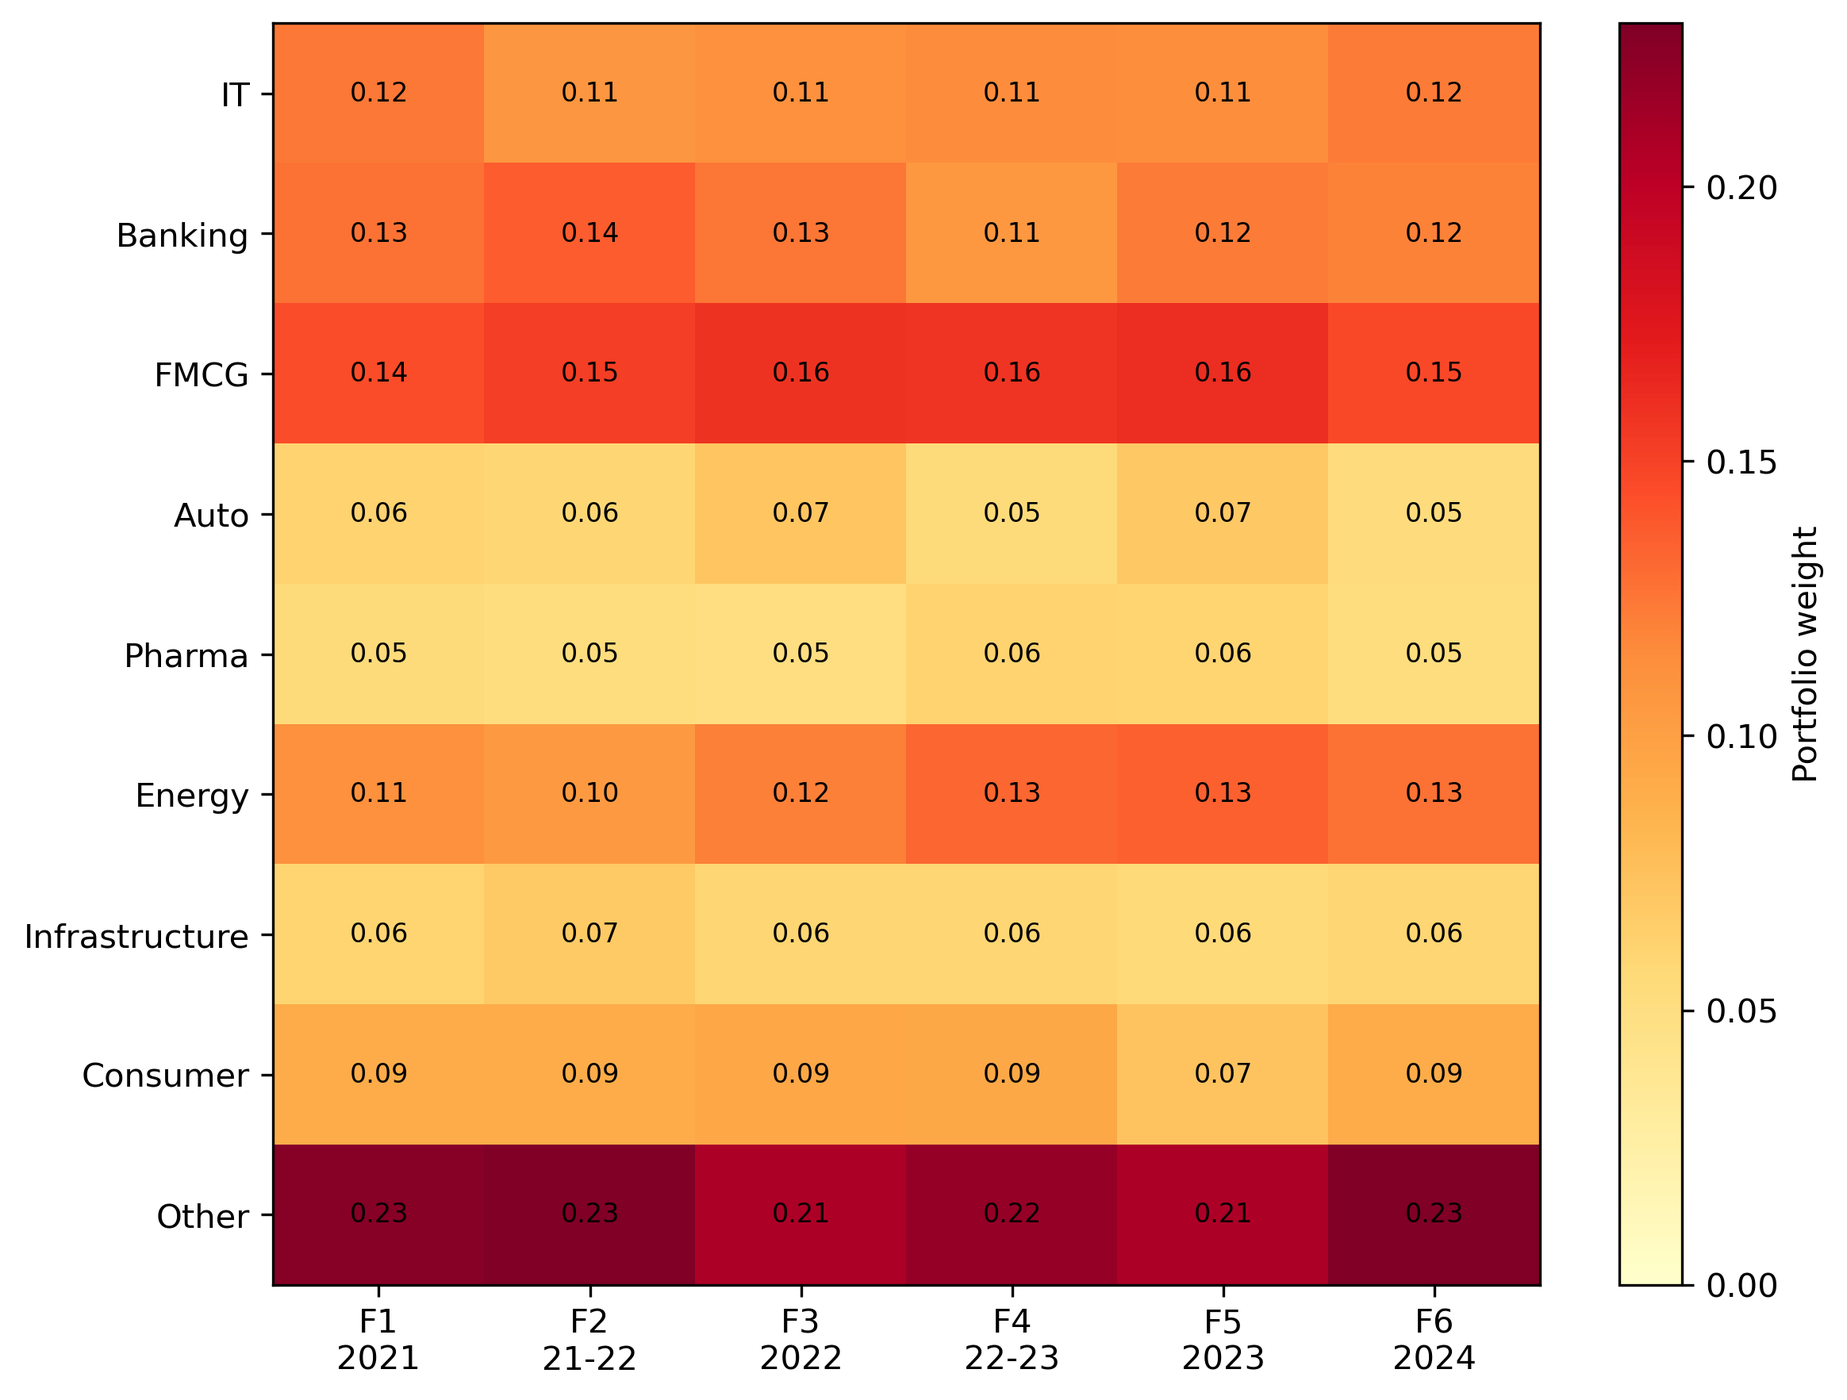
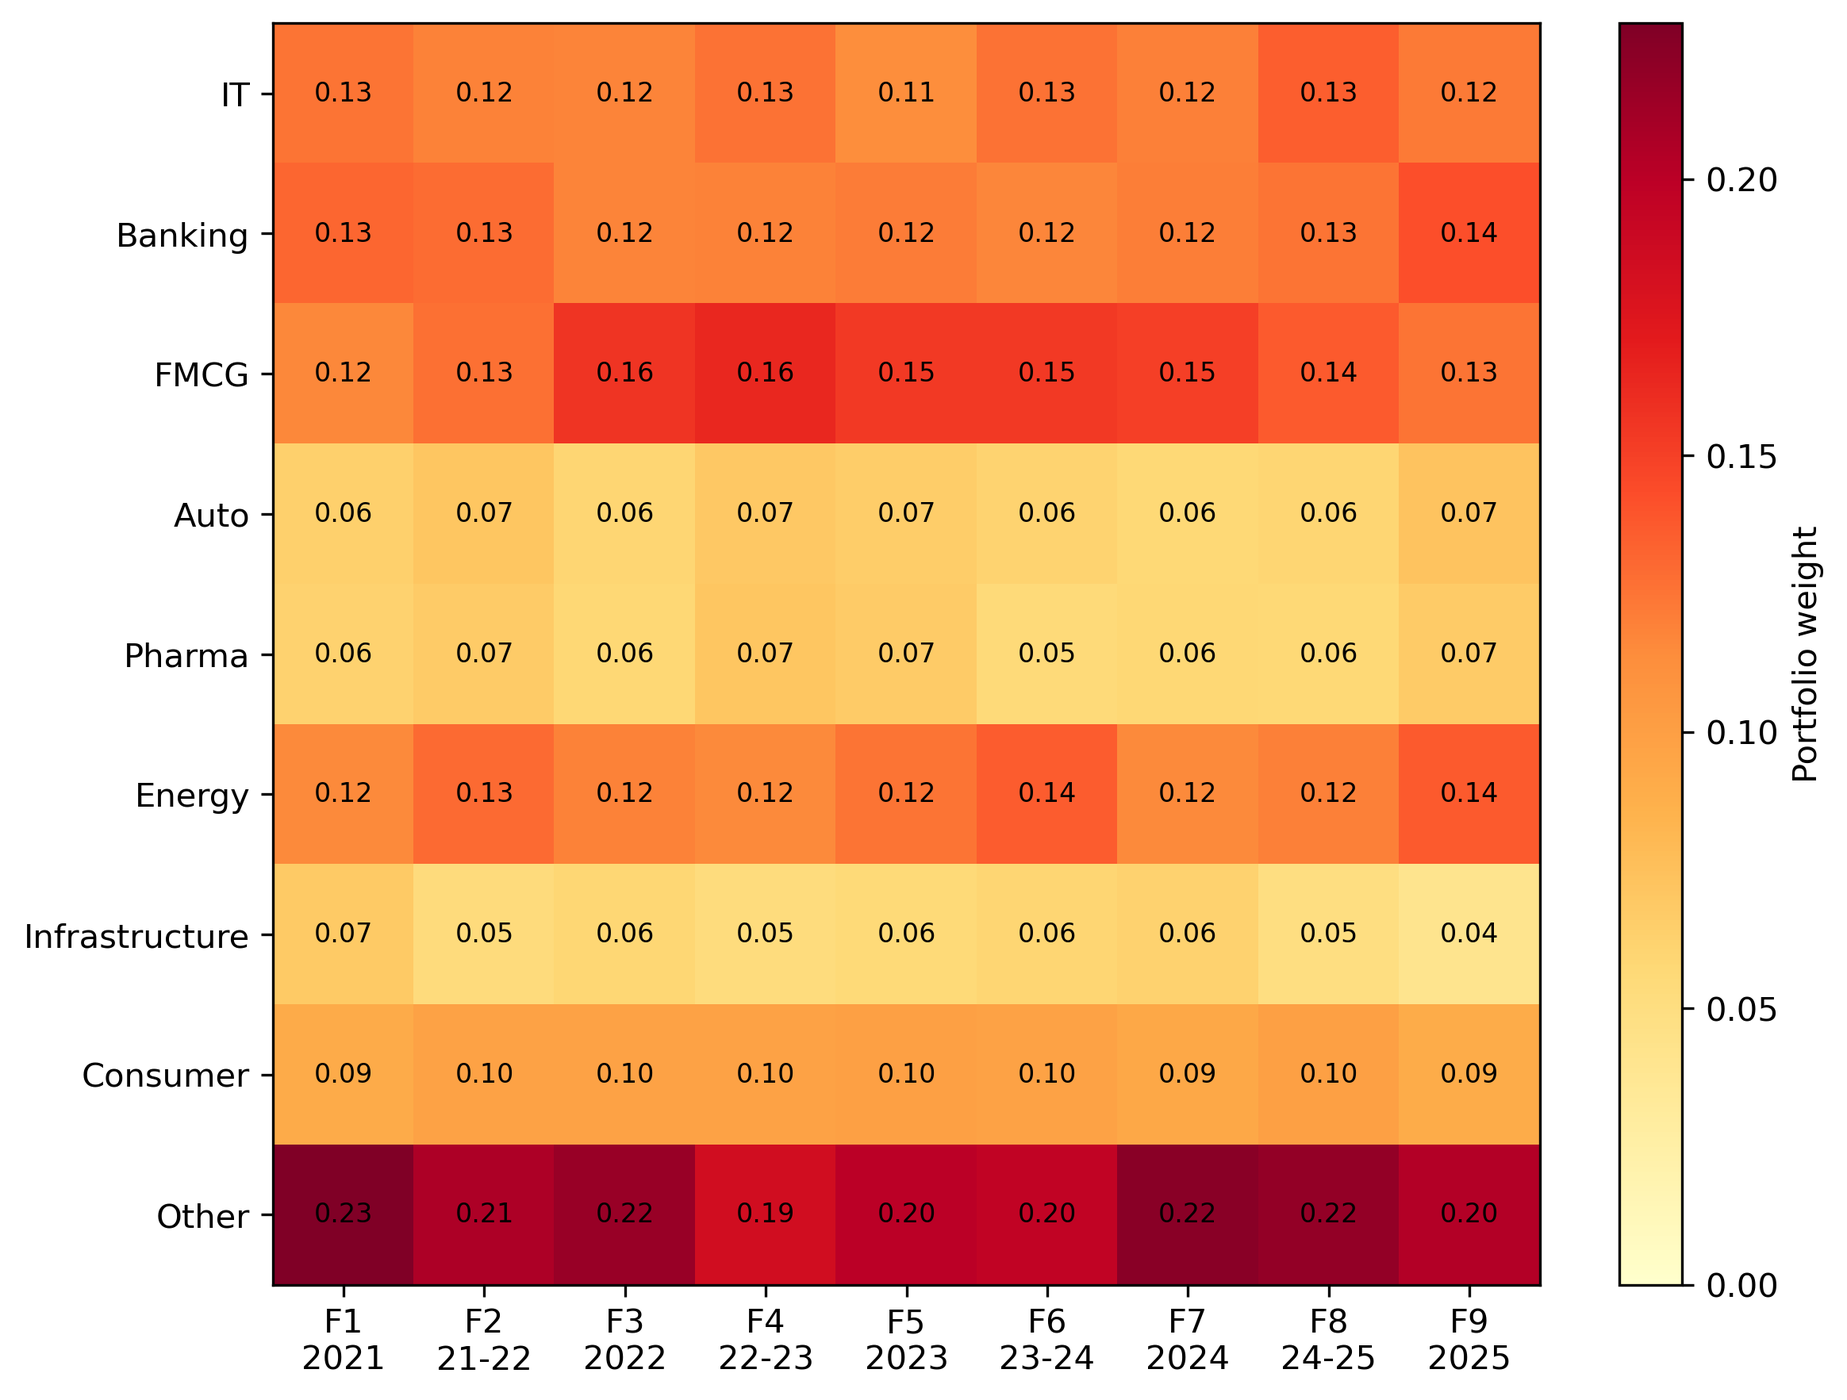
Reproducible paper figures and diagnostics; nine-fold sector weights; bootstrap interval fix

diff --git a/training/make_full_paper_figures.py b/training/make_full_paper_figures.py
@@ -1,0 +1,63 @@
+"""
+training/make_full_paper_figures.py
+Regenerates Fig. 2 (metrics heatmap), Fig. 7 (bootstrap CIs) and Fig. 10 (sensitivity) of the full manuscript
+from released artifacts only (outputs/results/*.csv). Run from the repository root:  python training/make_full_paper_figures.py
+"""
+import numpy as np, pandas as pd, matplotlib
+matplotlib.use("Agg")
+import matplotlib.pyplot as plt
+from matplotlib.patches import Rectangle
+from pathlib import Path
+ROOT = Path(__file__).resolve().parent.parent; R = ROOT / "outputs" / "results"; F = ROOT / "outputs" / "figures"; F.mkdir(parents=True, exist_ok=True)
+FOLDS = [f"Fold{i}" for i in range(1, 10)]
+frames = [pd.read_csv(R/"stgat_fold_results.csv"), pd.read_csv(R/"ablation_results.csv"), pd.read_csv(R/"bl_ml_results.csv"),
+          pd.read_csv(R/"rl_ppo_results.csv"), pd.read_csv(R/"benchmark_fold_results.csv").drop(columns=["name"])]
+A = pd.concat(frames, ignore_index=True); A = A[A.fold.isin(FOLDS)]
+ORDER = ["STGAT-DPO","STGAT-NoHMM","STGAT-NoGAT","BL-ML","RL-PPO","EW","BH","RiskPar","InvVol","MinVar","Momentum","MaxSharpe"]
+LABEL = {"STGAT-DPO":"STGAT-DPO (proposed)","STGAT-NoHMM":"STGAT-NoHMM","STGAT-NoGAT":"STGAT-NoGAT","BL-ML":"BL-ML","RL-PPO":"RL-PPO","EW":"Equal Weight",
+         "BH":"Buy & Hold","RiskPar":"Risk Parity","InvVol":"Inv. Volatility","MinVar":"Min Variance","Momentum":"Momentum","MaxSharpe":"Max Sharpe MVO"}
+M = A.groupby("strategy")[["info_ratio","sharpe","ann_return","max_drawdown","win_rate"]].mean().loc[ORDER]
+
+# ---------------- Fig 2: heatmap of relative rank (green = better; max drawdown: less negative = better) ----------------
+cols = [("info_ratio","Info Ratio","{:.3f}"),("sharpe","Sharpe","{:.3f}"),("ann_return","Ann. Return","{:.3f}"),("max_drawdown","Max Drawdown","{:.3f}"),("win_rate","Win Rate","{:.3f}")]
+rank = pd.DataFrame({c: (M[c].rank(method="average") - 1) / (len(M) - 1) for c,_,_ in cols})
+fig, ax = plt.subplots(figsize=(9.2, 6.4)); im = ax.imshow(rank.values, cmap="RdYlGn", vmin=0, vmax=1, aspect="auto")
+for i, s in enumerate(M.index):
+    for j, (c,_,fmt) in enumerate(cols):
+        v = rank.iloc[i, j]; ax.text(j, i, fmt.format(M.loc[s, c]), ha="center", va="center", fontsize=9, color="white" if v < 0.12 or v > 0.88 else "black", fontweight="bold" if i == 0 else "normal")
+ax.set_xticks(range(len(cols))); ax.set_xticklabels([n for _,n,_ in cols]); ax.set_yticks(range(len(M))); ax.set_yticklabels([LABEL[s] for s in M.index])
+ax.add_patch(Rectangle((-0.5,-0.5),len(cols),1,fill=False,edgecolor="#C0392B",lw=2.5))
+cb = fig.colorbar(im, ax=ax, fraction=0.04, pad=0.03); cb.set_label("Relative rank (green = better)")
+plt.tight_layout(); plt.savefig(F/"fig2_metrics_heatmap_12.png", dpi=300, bbox_inches="tight"); plt.close()
+
+# ---------------- Fig 7: bootstrap CIs, all twelve strategies (fresh identical seed per strategy) ----------------
+rows = []
+for s in ORDER:
+    x = A[A.strategy == s].sort_values("fold").info_ratio.values; rng = np.random.default_rng(42)
+    bm = np.array([x[rng.integers(0, 9, 9)].mean() for _ in range(10000)]); lo, hi = np.percentile(bm, [2.5, 97.5]); rows.append((s, x.mean(), lo, hi))
+fig, ax = plt.subplots(figsize=(8.6, 6.6)); ax.axvspan(0, 1.4, color="#2e7d32", alpha=0.05)
+for k, (s, m, lo, hi) in enumerate(rows):
+    y = len(rows) - 1 - k; col = "#C0392B" if s == "STGAT-DPO" else ("#1f4e79" if hi < 0 else "#7f8c8d")
+    ax.plot([lo, hi], [y, y], color=col, lw=2.4, solid_capstyle="round"); ax.plot(m, y, "o", color=col, ms=8)
+ax.axvline(0, color="black", ls="--", lw=1.2); ax.set_yticks(range(len(rows))); ax.set_yticklabels([LABEL[s] for s,*_ in rows][::-1])
+ax.set_xlabel("Mean walk-forward Information Ratio – 95% bootstrap CI (nine fold-level IRs, 10,000 resamples, seed 42)", fontsize=9); ax.grid(axis="x", alpha=0.3, ls="--")
+ax.annotate("Only CI entirely above zero", xy=(rows[0][2], len(rows)-1), xytext=(-1.45, len(rows)-1.9), fontsize=8.5, color="#C0392B", arrowprops=dict(arrowstyle="->", color="#C0392B"))
+ax.annotate("Entirely below zero", xy=(rows[-1][3], 0), xytext=(-0.25, 0.55), fontsize=8.5, color="#1f4e79", arrowprops=dict(arrowstyle="->", color="#1f4e79"))
+ax.spines[["top","right"]].set_visible(False); plt.tight_layout(); plt.savefig(F/"fig7_bootstrap_ci_12.png", dpi=300, bbox_inches="tight"); plt.close()
+
+# ---------------- Fig 10: sensitivity (mean IR +/- 1 std, and mean Sharpe) across nine folds ----------------
+S = pd.read_csv(R/"sensitivity_results_allfolds_v2.csv")
+g = S.groupby(["sensitivity","param"]).agg(IR=("info_ratio","mean"), sd=("info_ratio","std"), Sh=("sharpe","mean")).reset_index()
+cfg = [("transaction_cost","Transaction cost (bps per side)",10),("threshold_shift","Threshold shift added to 0.25 / 0.35 / 0.45",0.0),
+       ("lookback","Lookback window (days)",20),("max_weight","Max weight cap (inference-time clip)",0.15)]
+fig, axes = plt.subplots(2, 2, figsize=(12, 9)); fig.patch.set_facecolor("white")
+for ax, (k, xl, base) in zip(axes.flatten(), cfg):
+    d = g[g.sensitivity == k].sort_values("param"); x = d.param.values
+    ax.plot(x, d.IR, color="#C0392B", lw=2, marker="o", ms=5, label="Mean IR across 9 folds", zorder=5)
+    ax.fill_between(x, d.IR - d.sd, d.IR + d.sd, color="#C0392B", alpha=0.13, label="IR ± 1 std across folds")
+    ax.plot(x, d.Sh, color="#1f4e79", lw=1.8, ls="--", marker="s", ms=4, label="Mean Sharpe across 9 folds", zorder=4)
+    ax.axvline(base, color="#888888", lw=1.2, ls=":", label=f"Trained setting ({base})"); ax.axhline(0, color="black", lw=0.7, ls="--", alpha=0.4)
+    ax.set_xlabel(xl, fontsize=9); ax.set_ylabel("Mean ratio", fontsize=9); ax.legend(fontsize=7, framealpha=0.9, loc="best"); ax.grid(True, alpha=0.3, ls="--"); ax.spines[["top","right"]].set_visible(False)
+plt.tight_layout(); plt.savefig(F/"fig10_sensitivity_v2.png", dpi=300, bbox_inches="tight"); plt.close()
+print("saved: fig2_metrics_heatmap_12.png, fig7_bootstrap_ci_12.png, fig10_sensitivity_v2.png ->", F)
+for s,m,lo,hi in rows: print(f"  {s:12s} mean {m:+.4f}  CI [{lo:+.4f}, {hi:+.4f}]")

diff --git a/training/diagnose_blind_holdout.py b/training/diagnose_blind_holdout.py
@@ -1,0 +1,62 @@
+"""
+training/diagnose_blind_holdout.py
+Reproduces the Section 4.6 diagnostics ("Diagnosing the Blind-Holdout Result") from released artifacts only:
+  outputs/results/{regimes_Blind2025, nifty50_returns, weights_<fold>, stgat_returns, benchmark_returns, stgat_fold_results}
+Usage: python training/diagnose_blind_holdout.py
+"""
+import numpy as np, pandas as pd
+from pathlib import Path
+from scipy import stats
+
+R = Path(__file__).resolve().parent.parent / "outputs" / "results"
+START, END = "2026-01-01", "2026-08-28"
+FOLDS = [f"Fold{i}" for i in range(1, 10)] + ["Blind2025"]
+
+regime = pd.read_csv(R / "regimes_Blind2025.csv", index_col=0, parse_dates=True)["regime"].loc[START:END]
+nifty = pd.read_csv(R / "nifty50_returns.csv", index_col=0, parse_dates=True).iloc[:, 0].loc[START:END]
+
+print(f"1. Causal regime labels over the {len(regime)}-day blind holdout:", regime.value_counts().to_dict(),
+      "| 'bear' days:", int((regime == 'bear').sum()))
+for name, mask in (("Jan-Feb 2026 (sideways)", (nifty.index.month <= 2)),
+                   ("bull-labelled days (Mar-Jul)", nifty.index.isin(regime[regime == 'bull'].index)),
+                   ("Aug 2026 (sideways)", (nifty.index.month == 8))):
+    x = nifty[mask]
+    print(f"   Nifty 50 | {name:30s} n={len(x):3d}  cumulative {np.exp(x.sum()) - 1:+.1%}  annualised vol {x.std() * np.sqrt(252):.1%}")
+
+W = {f: pd.read_csv(R / f"weights_{f}.csv", index_col=0, parse_dates=True) for f in FOLDS}
+b = W["Blind2025"]; en = 1 / (b ** 2).sum(axis=1)
+seg = {"Jan-Feb": en[b.index.month <= 2], "Mar-Jul": en[(b.index.month >= 3) & (b.index.month <= 7)], "Aug": en[b.index.month == 8]}
+print("\n2. Portfolio concentration, blind holdout (effective-N = 1/sum w^2, out of 51):",
+      {k: round(v.mean(), 1) for k, v in seg.items()}, "| per-rebalance range", round(en.min(), 1), "-", round(en.max(), 1))
+print(f"   maximum single-stock weight per rebalance: {b.max(axis=1).min():.1%} - {b.max(axis=1).max():.1%}")
+
+rt = pd.read_csv(R / "stgat_returns.csv", index_col=0, parse_dates=True).iloc[:, 0]
+rt = rt[~rt.index.duplicated(keep="first")].sort_index()
+ew = pd.read_parquet(R / "benchmark_returns.parquet")["EW"]; ew = ew[~ew.index.duplicated(keep="first")].sort_index()
+reb = list(b.index) + [pd.Timestamp(END) + pd.Timedelta(days=1)]
+diffs = []
+for i in range(len(reb) - 1):
+    idx = rt.index[(rt.index >= reb[i]) & (rt.index < reb[i + 1])]
+    diffs.append((np.exp(rt[idx].sum()) - 1) - (np.exp(ew.reindex(idx).fillna(0).sum()) - 1))
+print("\n3. STGAT-DPO minus Equal Weight, by rebalance period:", [f"{d:+.2%}" for d in diffs],
+      f"| max |diff| {max(abs(d) for d in diffs):.2%} | negative in {sum(d < 0 for d in diffs)} of {len(diffs)}")
+
+ir = pd.read_csv(R / "stgat_fold_results.csv").set_index("fold").info_ratio
+effn = pd.Series({f: (1 / (W[f] ** 2).sum(axis=1)).mean() for f in FOLDS})
+pr, sr = stats.pearsonr(effn, ir.loc[FOLDS]), stats.spearmanr(effn, ir.loc[FOLDS])
+print(f"\n4. Mean effective-N vs fold IR across {len(FOLDS)} folds (9 walk-forward + blind): "
+      f"Pearson r = {pr[0]:+.3f} (p = {pr[1]:.3f}); Spearman r = {sr[0]:+.3f} (p = {sr[1]:.3f})")
+
+# ---- 5. quarterly and label-level breakdown of STGAT-DPO vs Nifty 50 (Table 9 of the full manuscript) ----
+sr = rt.loc[START:END]; nr = nifty.reindex(sr.index).ffill().fillna(0)
+def line(name, x, y, extra=""):
+    a = x - y
+    ir = a.mean() / a.std() * np.sqrt(252)
+    print(f"   {name:34s} n={len(x):3d}  Nifty {np.exp(y.sum()) - 1:+.4f}  STGAT-DPO {np.exp(x.sum()) - 1:+.4f}  IR {ir:+.3f} {extra}")
+print("\n5. STGAT-DPO vs Nifty 50 (compounded daily returns; IR = annualised mean/std of daily active return)")
+for q, (s0, e0) in {"Q1 2026 (Jan-Mar)": ("2026-01-01", "2026-03-31"), "Q2 2026 (Apr-Jun)": ("2026-04-01", "2026-06-30"), "Q3 2026 (Jul-Aug)": ("2026-07-01", END)}.items():
+    lab = regime.loc[s0:e0].value_counts().to_dict()
+    line(q, sr.loc[s0:e0], nr.loc[s0:e0], f"| label days {lab}")
+for L in ("sideways", "bull"):
+    m = regime.reindex(sr.index) == L
+    line(f"all days labelled '{L}'", sr[m], nr[m])

diff --git a/training/rebuild_sector_weights.py b/training/rebuild_sector_weights.py
@@ -1,63 +1,18 @@
 """
-training/rebuild_sector_weights.py
-=====================================
-Rebuilds the sector-allocation heatmap (fig12_sector_weights.png) from
-the confirmed final weights_Fold*.csv files (regenerated 2026-08-18
-under the corrected, reproducible pipeline), using the model's own
-authoritative SECTOR_MAP from models/gnn/stgat_dpo.py.
+training/rebuild_sector_weights.py  (nine-fold version)
+Sector allocation of STGAT-DPO per walk-forward fold (mean weight across rebalance dates), using the model's SECTOR_MAP.
+Writes outputs/results/sector_weights_rebuilt.csv (9 sectors x 9 folds). Run from the repository root.
 """
-import sys, os
-sys.path.insert(0, str(__import__("pathlib").Path(__file__).resolve().parent.parent))
-import numpy as np
-import pandas as pd
-import matplotlib
-matplotlib.use("Agg")
-import matplotlib.pyplot as plt
+import ast, pandas as pd
 from pathlib import Path
-from models.gnn.stgat_dpo import SECTOR_MAP
-
-ROOT = Path(__file__).resolve().parent.parent
-RESULTS_DIR = ROOT / "outputs" / "results"
-FIG_DIR = ROOT / "outputs" / "figures"
-
-# Group the 6 smallest sectors into "Other" to match the existing 9-row figure format
-MAIN_SECTORS = ["IT", "Banking", "FMCG", "Auto", "Pharma", "Energy", "Infrastructure", "Consumer"]
-ticker_to_group = {}
-for sector, members in SECTOR_MAP.items():
-    group = sector if sector in MAIN_SECTORS else "Other"
-    for t in members:
-        ticker_to_group[t] = group
-
-fold_labels = ["F1\n2021", "F2\n21-22", "F3\n2022", "F4\n22-23", "F5\n2023", "F6\n2024"]
-groups = MAIN_SECTORS + ["Other"]
-heatmap = np.zeros((len(groups), 6))
-
-print("Rebuilding sector-weight heatmap from confirmed final weights_Fold*.csv files")
-print("="*70)
-for fold_i in range(1, 7):
-    df = pd.read_csv(RESULTS_DIR / f"weights_Fold{fold_i}.csv", index_col=0)
-    mean_weights = df.mean(axis=0)  # average weight per stock across all rebalance dates in this fold
-    for g_i, group in enumerate(groups):
-        tickers_in_group = [t for t, grp in ticker_to_group.items() if grp == group and t in mean_weights.index]
-        heatmap[g_i, fold_i-1] = mean_weights[tickers_in_group].sum()
-    print(f"  Fold{fold_i}: total weight check = {mean_weights.sum():.4f} (should be ~1.0)")
-
-fig, ax = plt.subplots(figsize=(8, 6))
-im = ax.imshow(heatmap, cmap="YlOrRd", aspect="auto", vmin=0)
-ax.set_xticks(range(6)); ax.set_xticklabels(fold_labels)
-ax.set_yticks(range(len(groups))); ax.set_yticklabels(groups)
-for i in range(len(groups)):
-    for j in range(6):
-        ax.text(j, i, f"{heatmap[i,j]:.2f}", ha="center", va="center", fontsize=8)
-cbar = fig.colorbar(im, ax=ax)
-cbar.set_label("Portfolio weight")
-plt.tight_layout()
-plt.savefig(FIG_DIR / "fig12_sector_weights.png", dpi=300, bbox_inches="tight")
-print(f"\nSaved: {FIG_DIR / 'fig12_sector_weights.png'}")
-
-print("\nSector weight table (mean across dates within each fold):")
-sw_df = pd.DataFrame(heatmap, index=groups, columns=[f"Fold{i}" for i in range(1,7)])
-print(sw_df.round(4))
-sw_df.to_csv(RESULTS_DIR / "sector_weights_rebuilt.csv")
-print(f"\nSaved: {RESULTS_DIR / 'sector_weights_rebuilt.csv'}")
-print("Done.")
+ROOT = Path(__file__).resolve().parent.parent; R = ROOT / "outputs" / "results"
+SM = None
+for node in ast.parse((ROOT / "models" / "gnn" / "stgat_dpo.py").read_text()).body:     # parse without importing torch
+    if isinstance(node, ast.Assign) and any(getattr(t, "id", None) == "SECTOR_MAP" for t in node.targets): SM = ast.literal_eval(node.value)
+MAIN = ["IT", "Banking", "FMCG", "Auto", "Pharma", "Energy", "Infrastructure", "Consumer"]
+t2g = {t: (s if s in MAIN else "Other") for s, m in SM.items() for t in m}
+groups = MAIN + ["Other"]; tab = {}
+for i in range(1, 10):
+    w = pd.read_csv(R / f"weights_Fold{i}.csv", index_col=0).mean(axis=0)
+    tab[f"Fold{i}"] = {g: w[[t for t in w.index if t2g.get(t) == g]].sum() for g in groups}
+out = pd.DataFrame(tab); out.to_csv(R / "sector_weights_rebuilt.csv"); print((out * 100).round(2).to_string())

diff --git a/training/compute_bootstrap_ci.py b/training/compute_bootstrap_ci.py
@@ -4,10 +4,10 @@ training/compute_bootstrap_ci.py
 Percentile bootstrap 95% CI on mean walk-forward Information Ratio,
 computed properly (fold-level resampling) for every strategy, replacing
 the previously hardcoded, untraceable [0.040, 1.076] figure.
-Method: resample the 6 walk-forward fold-level IR values with
+Method: resample the 9 walk-forward fold-level IR values with
 replacement, recompute the mean IR each draw, repeat N_BOOT times,
 take the 2.5th/97.5th percentiles as the 95% CI. This is a small-sample
-bootstrap (n=6 folds) and is reported as such.
+bootstrap (n=9 folds) and is reported as such.
 """
 import os
 os.environ["OMP_NUM_THREADS"] = "1"
@@ -18,9 +18,9 @@ import pandas as pd
 
 SEED = 42
 N_BOOT = 10000
-rng = np.random.default_rng(SEED)
 
 def bootstrap_ci(fold_irs, n_boot=N_BOOT):
+    rng = np.random.default_rng(SEED)  # fresh identical seed per strategy: result independent of call order
     fold_irs = np.asarray(fold_irs)
     n = len(fold_irs)
     boot_means = np.empty(n_boot)
@@ -45,9 +45,9 @@ sources = [
 ]
 
 print("="*90)
-print("  BOOTSTRAP 95% CI ON MEAN WALK-FORWARD IR (fold-level percentile bootstrap, n=6 folds)")
+print("  BOOTSTRAP 95% CI ON MEAN WALK-FORWARD IR (fold-level percentile bootstrap, n=9 folds)")
 print("="*90)
-print(f"  {'Strategy':<14} {'Mean IR':>9} {'CI Low':>9} {'CI High':>9} {'Excl.0':>7}  Data vintage")
+print(f"  {'Strategy':<14} {'Mean IR':>9} {'CI Low':>9} {'CI High':>9} {'vs zero':>8}  Data vintage")
 print("  " + "-"*88)
 
 results = []
@@ -58,8 +58,8 @@ for label, path, strat, vintage in sources:
             print(f"  {label:<14}  WARNING: found {len(irs)} folds, expected 9 -- skipping")
             continue
         mean_ir, lo, hi = bootstrap_ci(irs)
-        excl = "YES" if lo > 0 else "no"
-        print(f"  {label:<14} {mean_ir:>9.4f} {lo:>9.4f} {hi:>9.4f} {excl:>7}  {vintage}")
+        excl = "above 0" if lo > 0 else ("below 0" if hi < 0 else "spans 0")
+        print(f"  {label:<14} {mean_ir:>9.4f} {lo:>9.4f} {hi:>9.4f} {excl:>8}  {vintage}")
         results.append((label, mean_ir, lo, hi))
     except Exception as e:
         print(f"  {label:<14}  ERROR: {e}")
@@ -76,7 +76,7 @@ for strat in bench_strats:
         print(f"  {strat:<14}  WARNING: found {len(irs)} folds, expected 9 -- skipping")
         continue
     mean_ir, lo, hi = bootstrap_ci(irs)
-    excl = "YES" if lo > 0 else "no"
-    print(f"  {strat:<14} {mean_ir:>9.4f} {lo:>9.4f} {hi:>9.4f} {excl:>7}")
+    excl = "above 0" if lo > 0 else ("below 0" if hi < 0 else "spans 0")
+    print(f"  {strat:<14} {mean_ir:>9.4f} {lo:>9.4f} {hi:>9.4f} {excl:>8}")
 
 print("\nDone.")

diff --git a/README.md b/README.md
@@ -42,4 +42,4 @@ hunain_2022phacse009@nitsri.ac.in
 
 Figures. The cumulative-growth, drawdown and daily-return-distribution figures are regenerated from the released CSVs by: python training/make_cumulative_figures.py (each date is counted once; the per-fold return files overlap by six months, and earlier versions of these figures double-counted the overlap). The scripts in training/legacy/ and the diagnostic plots written by train_stgat.py and run_benchmarks.py are superseded: they stack the overlapping fold windows, so their cumulative-growth and drawdown plots should not be used.
 
-Figures. The cumulative-growth, drawdown and daily-return-distribution figures are regenerated from the released CSVs by: python training/make_cumulative_figures.py (each date is counted once; the per-fold return files overlap by six months, and earlier versions of these figures double-counted the overlap). The scripts in training/legacy/ and the diagnostic plots written by train_stgat.py and run_benchmarks.py are superseded: they stack the overlapping fold windows, so their cumulative-growth and drawdown plots should not be used.
+Further figure and diagnostic scripts: python training/make_full_paper_figures.py (metrics heatmap, bootstrap intervals for all twelve strategies, sensitivity figure), python training/rebuild_sector_weights.py (nine-fold sector-allocation table), python training/diagnose_blind_holdout.py (Section 4.6 diagnostics and the quarterly and regime-label table of the blind holdout).
